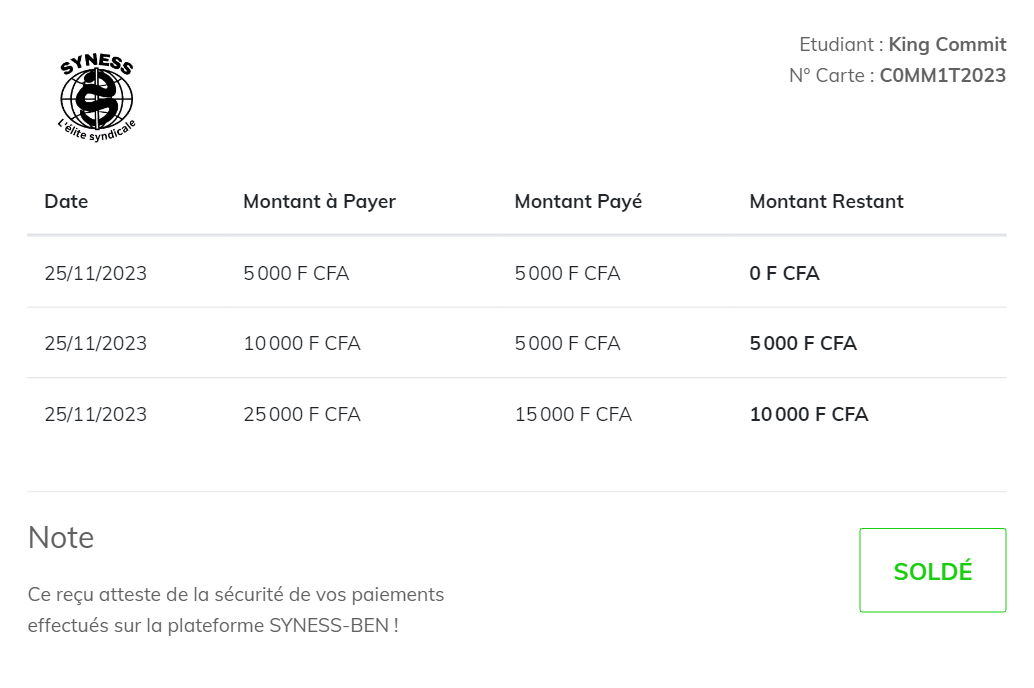
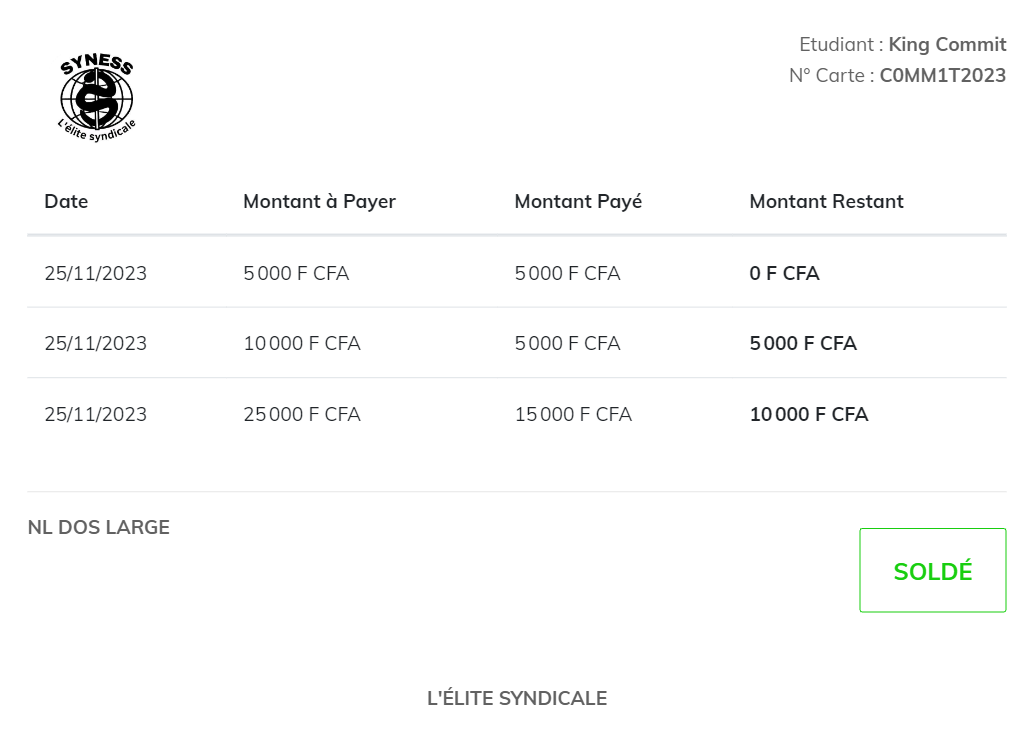
update

diff --git a/resources/views/management/payments.blade.php b/resources/views/management/payments.blade.php
@@ -204,12 +204,16 @@
             <div class="modal-body">
                 <div class="card" id="details">
                     <div class="body imprimable">                                
-                        <div class="row">
-                            <div class="col-md-6 col-sm-6">
-                                    <img src="{{asset('assets/images/logo.svg')}}" alt="SYNESS" style="height: 100px;">
-                                
+                        <div class="row text-center">
+                            <div class="col-md-2 col-sm-3 m-0 p-0" style="max-width: 100px;">
+                                <img src="{{asset('assets/images/logo.svg')}}" alt="SYNESS" style="height: 100px;">
                             </div>
-                            <div class="col-md-6 col-sm-6 text-right">
+                            <div class="col-md-7 col-sm-6 m-0 p-0">
+                                <h5 class="text-uppercase">
+                                    <b>SYNDICAT NATIONAL DES ETUDIANTS EN SCIENCE DE LA SANTé</b>
+                                </h5>
+                            </div>
+                            <div class="col-md-3 col-sm-3 text-right m-0 p-0 right" style="float:right; right:0;">
                                 <p class="m-b-0">Etudiant : <strong><span id="factureNom"></span> <span id="facturePrenoms"></span></strong></p>
                                 <p class="m-b-0">N° Carte : <strong><span id="factureCarte"></span></strong></p>
                             </div>
@@ -225,15 +229,17 @@
                         <hr>
                         <div class="row">
                             <div class="col-md-6">
-                                <h5>Note</h5>
-                                <p>
-                                    Ce reçu atteste de la sécurité de vos paiements effectués sur la plateforme SYNESS-BEN !
-                                </p>
+                                <h6>NL DOS LARGE</h6>
+                                <img class="img-fluid" id="qrCodeImageRecu" src="" alt="QRCODE" style="height: 100px">
                             </div>
                             <div class="col-md-6 text-right">                                   
                                 <h4 class="m-b-0 m-t-10">
                                     <span class="badge text-uppercase badge-danger m-b-0 p-4" id="factureStatut"></span>
                                 </h4>
+                            </div>
+                            <div class="row mt-2 col-12 p-0">
+                                <div class="col-6" style="float: left"><h6 class="text-uppercase">L'élite syndicale</h6></div>
+                                <div class="col-6 p-0" style="text-align:right"><h6 class="text-uppercase">SYNESS CONFIANCE !!!</h6></div>
                             </div>
                         </div>                                
                     </div>
@@ -441,6 +447,8 @@
                     $('#factureNom').text(data.nom);
                     $('#facturePrenoms').text(data.prenoms);
                     $('#factureCarte').text(data.carte);
+                    var link = 'https://synessben.committeam.com/assets/images/etudiants/qrcode/'+ data.image;
+                    $('#qrCodeImageRecu').attr('src', link);
 
                     var factureStatut = $('#factureStatut');
                     factureStatut.text(data.statut);

diff --git a/resources/views/management/users.blade.php b/resources/views/management/users.blade.php
@@ -4,7 +4,7 @@
 <body class="theme-black">
 @include('layout/nav')
 
-@if($utilisateur->role->libelle == 'ROOT' || $utilisateur->role->libelle == 'ADMIN' || $utilisateur->role->libelle == 'SUPPORT')
+@if($utilisateur->role->libelle == 'ROOT' || $utilisateur->role->libelle == 'ADMIN' || $utilisateur->role->libelle == 'SUPPORT' || $utilisateur->role->libelle == 'SUPERVISEUR')
 
 <section class="content contact">
     <div class="container-fluid">
@@ -46,7 +46,7 @@
                                         </tr>
                                     </thead>                                
                                     <tbody>
-                                        @foreach($etudiants as $etudiant)
+                                        @foreach($utilisateurs as $etudiant)
                                         <tr>
                                             <td><img @if($etudiant->photo) src="{{asset('assets/images/etudiants/photos/'.$etudiant->photo)}}" @else src="{{asset('assets/images/avatar.png')}}" @endif class="rounded-circle avatar" alt="photo"></td>
                                             <td>{{$etudiant->nom}} {{$etudiant->prenoms}} @if($etudiant->username) <span class="text-uppercase">({{$etudiant->username}})</span> @endif</td>
@@ -59,7 +59,9 @@
                                                     @if($etudiant->role->libelle !== 'ROOT')
                                                         <a href="{{route('getEtudiant', $etudiant->id)}}"><button title="modifier" class="btn btn-icon btn-neutral btn-icon-mini margin-0"><i class="zmdi zmdi-edit"></i></button></a>
                                                         @if($etudiant->id !== $utilisateur->id)
-                                                            <button title="supprimer" class="btn btn-icon btn-neutral btn-icon-mini margin-0 supprimer-etudiant" data-id="{{$etudiant->id}}" data-nom="{{$etudiant->nom}}" data-prenoms="{{$etudiant->prenoms}}"><i class="zmdi zmdi-delete"></i></button>
+                                                            @if($etudiant->role->libelle !== 'ADMIN')
+                                                                <button title="supprimer" class="btn btn-icon btn-neutral btn-icon-mini margin-0 supprimer-etudiant" data-id="{{$etudiant->id}}" data-nom="{{$etudiant->nom}}" data-prenoms="{{$etudiant->prenoms}}"><i class="zmdi zmdi-delete"></i></button>
+                                                            @endif
                                                         @endif
                                                     @endif
                                                 @else

diff --git a/app/Http/Controllers/StudentController.php b/app/Http/Controllers/StudentController.php
@@ -24,11 +24,11 @@ class StudentController extends Controller
             $utilisateurs = Etudiant::where([['active', true], ['access', true]])->orderBy('created_at', 'desc')->get();
             
             if($utilisateur->role->libelle == 'ROOT'){
-                $roles = Role::where([['active', true]])->orderBy('libelle', 'asc')->get();
+                $roles = Role::where([['active', true]])->orderBy('libelle', 'desc')->get();
             }
             else{
                 $roles = Role::where([['active', true], ['libelle', '<>', 'ROOT'], ['libelle', '<>', 'SUPPORT']])
-                     ->orderBy('libelle', 'asc')
+                     ->orderBy('libelle', 'desc')
                      ->get();
             }
 
@@ -227,11 +227,11 @@ class StudentController extends Controller
             $utilisateurs = Etudiant::where([['active', true], ['access', true]])->orderBy('created_at', 'desc')->get();
             $paiements = Paiement::where([['active', true]])->orderBy('created_at', 'desc')->get();
             if($utilisateur->role->libelle == 'ROOT'){
-                $roles = Role::where([['active', true]])->orderBy('libelle', 'asc')->get();
+                $roles = Role::where([['active', true]])->orderBy('libelle', 'desc')->get();
             }
             else{
                 $roles = Role::where([['active', true], ['libelle', '<>', 'ROOT'], ['libelle', '<>', 'SUPPORT']])
-                     ->orderBy('libelle', 'asc')
+                     ->orderBy('libelle', 'desc')
                      ->get();
             }
             $menu = 'Etudiants';
@@ -388,7 +388,7 @@ class StudentController extends Controller
             $etudiants = Etudiant::where([['active', true]])->orderBy('created_at', 'desc')->get();
             $fiveLast = Etudiant::where('active', true)->latest()->take(5)->get();
             $utilisateurs = Etudiant::where([['active', true], ['access', true]])->orderBy('created_at', 'desc')->get();
-            $roles = Role::where([['active', true]])->orderBy('libelle', 'asc')->get();
+            $roles = Role::where([['active', true]])->orderBy('libelle', 'desc')->get();
             $menu = 'Utilisateurs';
             return view('management.users', compact('menu', 'utilisateur', 'roles', 'etudiants', 'paiements', 'fiveLast', 'utilisateurs'));
         }

diff --git a/app/Http/Controllers/PaymentController.php b/app/Http/Controllers/PaymentController.php
@@ -59,7 +59,7 @@ class PaymentController extends Controller
 
             $fiveLast = Etudiant::where('active', true)->latest()->take(5)->get();
             $utilisateurs = Etudiant::where([['active', true], ['access', true]])->orderBy('created_at', 'desc')->get();
-            $roles = Role::where([['active', true]])->orderBy('libelle', 'asc')->get();
+            $roles = Role::where([['active', true]])->orderBy('libelle', 'desc')->get();
             $menu = 'Paiements';
             return view('management.payments', compact('menu', 'utilisateur', 'etudiants', 'etudiantsWithoutPaiements', 'paiements', 'paiementsEtudiants', 'utilisateurs', 'roles', 'fiveLast'));
         }
@@ -79,7 +79,7 @@ class PaymentController extends Controller
             $etudiants = Etudiant::where([['active', true]])->orderBy('created_at', 'desc')->get();
             $fiveLast = Etudiant::where('active', true)->latest()->take(5)->get();
             $utilisateurs = Etudiant::where([['active', true], ['access', true]])->orderBy('created_at', 'desc')->get();
-            $roles = Role::where([['active', true]])->orderBy('libelle', 'asc')->get();
+            $roles = Role::where([['active', true]])->orderBy('libelle', 'desc')->get();
             $menu = 'Versements de <b>'.$versements[0]->etudiant->nom.' '.$versements[0]->etudiant->prenoms.'</b>';
             return view('management.studentVersements', compact('menu', 'utilisateur', 'etudiants', 'paiements', 'versements', 'utilisateurs', 'roles', 'fiveLast'));
         }
@@ -95,12 +95,20 @@ class PaymentController extends Controller
             if($versements->isEmpty()){
                 return redirect()->back();
             }
+
+            $image = '';
+
+            if($versements){
+                $image = $versements[0]->qrCode;
+            }
+
             return response()->json([
                 'versements' => $versements,
                 'nom' => $latestVersement->etudiant->nom,
                 'prenoms' => $latestVersement->etudiant->prenoms,
                 'carte' => $latestVersement->etudiant->numCarteEtud,
                 'statut' => $latestVersement->montantRestant == 0 ? 'Soldé' : 'Acompté',
+                'image' => $image
             ]);
         }
         else {

diff --git a/app/Http/Controllers/HomeController.php b/app/Http/Controllers/HomeController.php
@@ -62,7 +62,7 @@ class HomeController extends Controller
 
             $fiveLast = Etudiant::where('active', true)->latest()->take(5)->get();
             $utilisateurs = Etudiant::where([['active', true], ['access', true]])->orderBy('created_at', 'desc')->get();
-            $roles = Role::where([['active', true]])->orderBy('libelle', 'asc')->get();
+            $roles = Role::where([['active', true]])->orderBy('libelle', 'desc')->get();
             $menu = 'Tableau de bord';
             return view('home', compact('menu', 'utilisateur', 'etudiants', 'etudiantsSoldes', 'revenu', 'etudiantsNonSoldes', 'etudiantsWithoutPaiements', 'utilisateurs', 'paiements', 'roles', 'fiveLast'));
         }
@@ -79,7 +79,7 @@ class HomeController extends Controller
             $etudiants = Etudiant::where([['active', true]])->orderBy('created_at', 'desc')->get();
             $fiveLast = Etudiant::where('active', true)->latest()->take(5)->get();
             $utilisateurs = Etudiant::where([['active', true], ['access', true]])->orderBy('created_at', 'desc')->get();
-            $roles = Role::where([['active', true]])->orderBy('libelle', 'asc')->get();
+            $roles = Role::where([['active', true]])->orderBy('libelle', 'desc')->get();
             $menu = 'profil';
             return view('user.profile', compact('menu', 'utilisateur', 'etudiants', 'paiements', 'utilisateurs', 'roles', 'fiveLast'));
         }

diff --git a/resources/views/layout/nav.blade.php b/resources/views/layout/nav.blade.php
@@ -59,7 +59,7 @@
                     </a>
                 </li>
                 @endif
-                @if($utilisateur->role->libelle == 'ROOT' || $utilisateur->role->libelle == 'ADMIN' || $utilisateur->role->libelle == 'SUPPORT')
+                @if($utilisateur->role->libelle == 'ROOT' || $utilisateur->role->libelle == 'ADMIN' || $utilisateur->role->libelle == 'SUPPORT' || $utilisateur->role->libelle == 'SUPERVISEUR')
                 <li class="header">PARAMETRES</li>
                 <li class="@if($menu=='Utilisateurs') active open @endif">
                     <a href="{{route('users')}}" class="menu-toggle">
